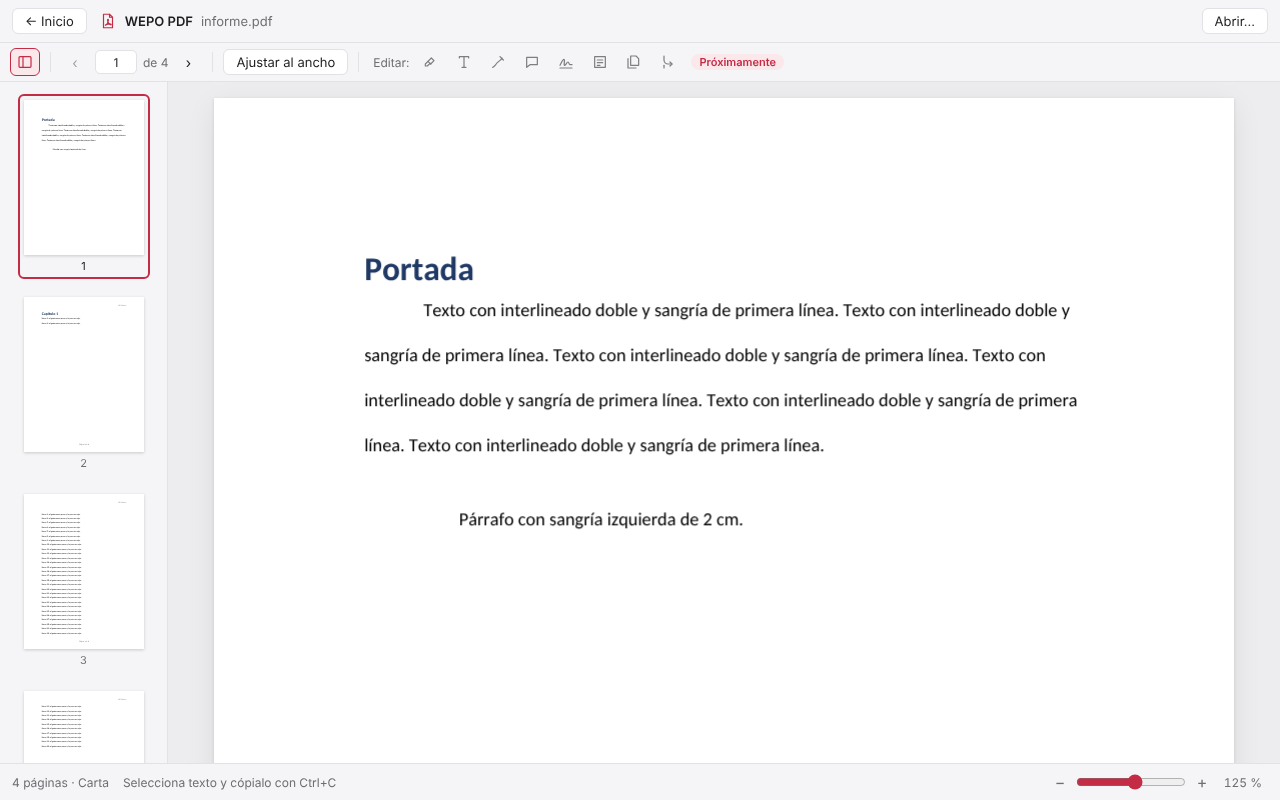
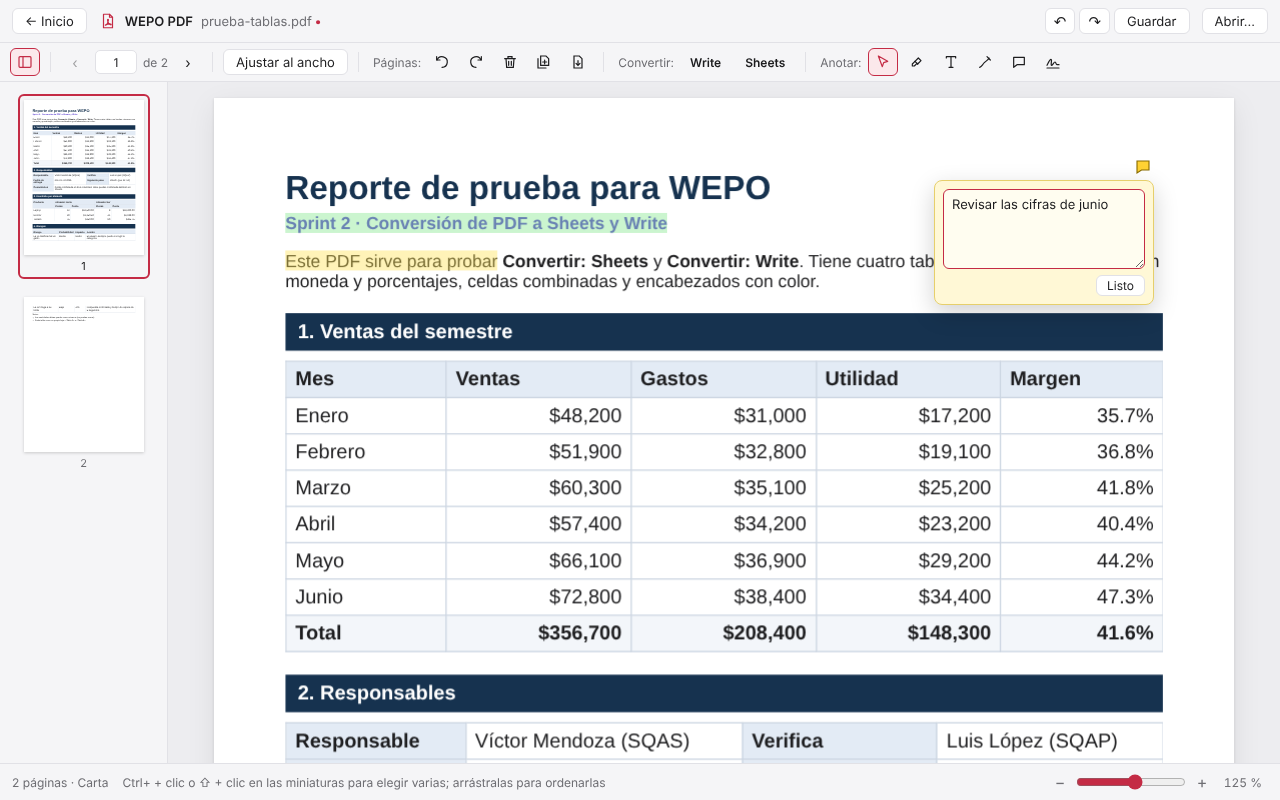
Paso 39: versión 0.3.0

diff --git a/src/editors/pdf/Annotations.tsx b/src/editors/pdf/Annotations.tsx
@@ -355,7 +355,7 @@ export default function AnnotationLayer(props: Props) {
                 </svg>
               </button>
               {openNote === a.id && (
-                <div className="pdf-note-popup" onPointerDown={(e) => e.stopPropagation()}>
+                <div className="pdf-note-popup" style={popupSide(left, W)} onPointerDown={(e) => e.stopPropagation()}>
                   <textarea
                     className="textarea"
                     autoFocus
@@ -411,7 +411,7 @@ export default function AnnotationLayer(props: Props) {
               )}
             </button>
             {openNote === n.id && (
-              <div className="pdf-note-popup" style={{ top: box.height + 4 }} onPointerDown={(e) => e.stopPropagation()}>
+              <div className="pdf-note-popup" style={{ top: box.height + 4, ...popupSide(box.left, W) }} onPointerDown={(e) => e.stopPropagation()}>
                 {n.author && <span className="pdf-note-author">{n.author}</span>}
                 <p className="pdf-note-text">{n.text || "(nota vacía)"}</p>
                 <button type="button" className="btn" onClick={() => setOpenNote(null)}>
@@ -725,4 +725,9 @@ function wordAt(at: Caret): [Caret, Caret] {
     { node: at.node, offset: start },
     { node: at.node, offset: end },
   ];
+}
+
+/** La ventanita de la nota se abre hacia la izquierda si a la derecha no cabe en la página. */
+function popupSide(left: number, pageWidth: number): React.CSSProperties {
+  return left + 236 > pageWidth ? { left: "auto", right: -2 } : {};
 }

diff --git a/README.md b/README.md
@@ -2,7 +2,7 @@
 
 **Write · Edit · Present · Open**
 
-WEPO es una suite de oficina ligera y de código abierto para macOS, Windows y Linux. Abre y edita documentos, hojas de cálculo y presentaciones de Microsoft Office (y de LibreOffice), y muestra PDF, en una sola aplicación.
+WEPO es una suite de oficina ligera y de código abierto para macOS, Windows y Linux. Abre y edita documentos, hojas de cálculo y presentaciones de Microsoft Office (y de LibreOffice) y PDF, en una sola aplicación. Exporta cualquier documento a PDF y convierte un PDF en documento editable o en hoja de cálculo.
 
 ![WEPO Sheets: tabla con fórmulas y gráfica](docs/capturas/sheets.png)
 
@@ -10,7 +10,9 @@ WEPO es una suite de oficina ligera y de código abierto para macOS, Windows y L
 |---|---|
 | ![WEPO Write con comentarios y control de cambios](docs/capturas/write.png) | ![WEPO Present editando una diapositiva](docs/capturas/present.png) |
 | **WEPO PDF** | **Inicio** |
-| ![WEPO PDF con miniaturas](docs/capturas/pdf.png) | ![Pantalla de inicio de WEPO](docs/capturas/inicio.png) |
+| ![WEPO PDF con resaltados y notas](docs/capturas/pdf.png) | ![Pantalla de inicio de WEPO](docs/capturas/inicio.png) |
+| **Imprimir con vista previa** | **Un PDF convertido en documento de Write** |
+| ![Vista previa de impresión de WEPO Sheets](docs/capturas/imprimir.png) | ![Un PDF convertido en documento de WEPO Write](docs/capturas/convertir.png) |
 
 ## Descargar
 
@@ -25,7 +27,7 @@ La versión más reciente está en [**Releases**](../../releases): hay instalado
 | **WEPO Write** | Documentos de texto | .docx, .txt, .md (y abre .odt) |
 | **WEPO Sheets** | Hojas de cálculo | .xlsx, .xlsm, .xlsb, .xls, .ods, .csv |
 | **WEPO Present** | Presentaciones | .pptx |
-| **WEPO PDF** | Ver y editar PDF | .pdf |
+| **WEPO PDF** | Ver, editar y convertir PDF (a Write o a Sheets) | .pdf |
 
 ## Tecnología
 
@@ -103,7 +105,7 @@ npm run tauri build
 
 Al terminar quedan en `src-tauri/target/release/bundle/macos/WEPO.app` y `src-tauri/target/release/bundle/dmg/`. Abre el .dmg y arrastra WEPO a la carpeta Aplicaciones.
 
-También puedes dejar que GitHub lo haga: al subir una etiqueta de versión (`git tag v0.2.0 && git push origin v0.2.0`) el flujo `.github/workflows/release.yml` crea un borrador en **Releases** con un .dmg para Mac con chip Apple y otro para Mac con Intel.
+También puedes dejar que GitHub lo haga: al subir una etiqueta de versión (`git tag v0.3.0 && git push origin v0.3.0`) el flujo `.github/workflows/release.yml` crea un borrador en **Releases** con un .dmg para Mac con chip Apple y otro para Mac con Intel.
 
 **Primera vez que la abres:** WEPO todavía no está firmado por Apple, así que macOS no la deja abrir con doble clic. Haz clic derecho sobre WEPO en Aplicaciones → **Abrir** → **Abrir**. Solo hace falta una vez.
 
@@ -254,6 +256,14 @@ WEPO entiende más de 490 funciones. Puedes escribirlas en español (`=SUMA`, `=
 - [x] WEPO Sheets: gráficas apiladas y combinadas, títulos de ejes y valores en las barras
 - [x] WEPO Sheets: encabezado, pie, filas que se repiten y área de impresión
 - [x] WEPO Sheets: ventana «Insertar función», validación de números y fechas, filtros por condición, quitar duplicados
+- [x] Exportar como PDF desde Sheets, Write y Present, sin pasar por el diálogo de impresión
+- [x] WEPO Sheets: imprimir con vista previa (papel, orientación, márgenes, escala) y elegir el área de impresión con el mouse
+- [x] WEPO PDF: convertir un PDF en documento de Write (títulos, listas, tablas, imágenes, encabezado y pie)
+- [x] WEPO PDF: pasar las tablas de un PDF a Sheets, con números de verdad y celdas combinadas
+- [ ] Vista previa de impresión en Write y Present
+- [ ] WEPO Present: animaciones, transiciones y gráficas
+- [ ] WEPO Write: índice automático y notas al pie
+- [ ] WEPO PDF: reconocer texto en escaneos (OCR)
 
 ## Licencia
 

diff --git a/CHANGELOG.md b/CHANGELOG.md
@@ -2,7 +2,9 @@
 
 Todos los cambios importantes de WEPO, de la versión más nueva a la más vieja.
 
-## Próxima versión (sin publicar)
+## 0.3.0 (23 de octubre de 2026)
+
+WEPO PDF ya edita, y los documentos pasan de un formato a otro: exportar a PDF desde los tres editores y convertir un PDF en documento de Write o en hojas de Sheets.
 
 ### Imprimir en WEPO Sheets, como en Excel
 - Nueva pantalla de impresión con vista previa: las páginas se ven tal como van a salir (impresas o en PDF) y cambian con cada opción.
@@ -43,6 +45,7 @@ Todos los cambios importantes de WEPO, de la versión más nueva a la más vieja
 - Elegir texto con la flecha también funciona como en Vista Previa: empezar en el margen o soltar fuera de la página ya no elige la hoja entera; doble clic elige la palabra y triple clic el renglón.
 - Las notas adhesivas se leen bien en modo oscuro, se ven en cualquier lector de PDF y, al volver a abrir el archivo en WEPO, se pueden leer.
 - Los resaltados quedan exactos también en PDFs hechos por programas que dejan el dibujo desplazado.
+- La ventanita de una nota cerca del borde derecho se abre hacia la izquierda (ya no se sale de la página).
 
 ### Seguridad
 - pdf.js actualizado a la 6.4.299: corrige una falla que permitía ejecutar código al abrir un PDF malicioso (CVE-2026-16633).
